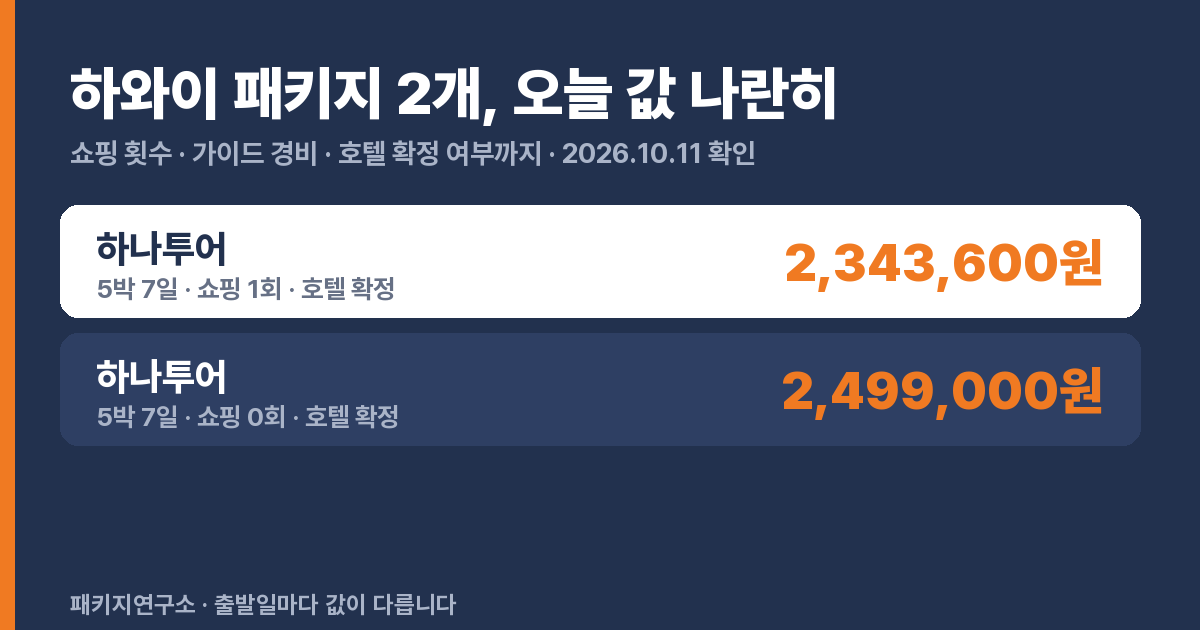
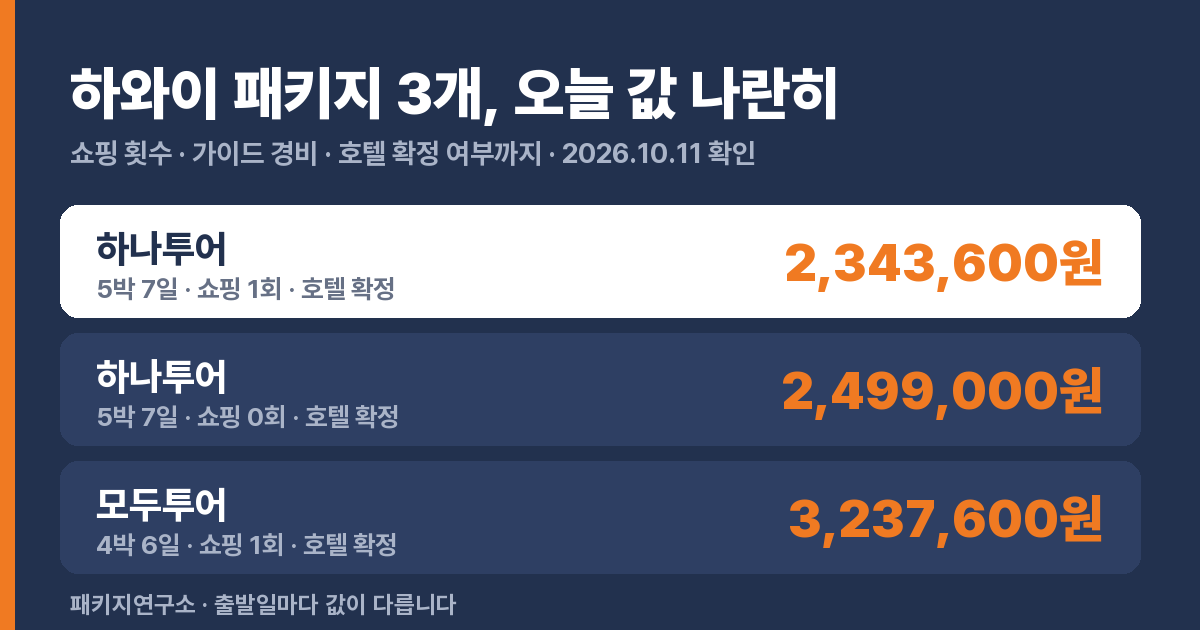
목적지 비교 페이지 2026.10.11

diff --git a/d/hawaii.html b/d/hawaii.html
@@ -1,8 +1,8 @@
 <!doctype html><html lang="ko"><head>
 <meta charset="utf-8"><meta name="viewport" content="width=device-width,initial-scale=1">
 <title>하와이 패키지 비교 — 패키지연구소</title>
-<meta name="description" content="하와이 패키지 2개를 가격·쇼핑 횟수·가이드 경비·호텔 확정 여부로 나란히 놓고 비교합니다.">
-<link rel="canonical" href="https://package-researcher.github.io/d/hawaii.html"><meta property="og:type" content="website"><meta property="og:url" content="https://package-researcher.github.io/d/hawaii.html"><meta property="og:title" content="하와이 패키지 2개, 나란히 비교"><meta property="og:description" content="가격·쇼핑 횟수·가이드 경비·호텔 확정 여부 · 오늘 기준 요금"><meta property="og:image" content="https://package-researcher.github.io/d/og/hawaii.png"><meta property="og:image:width" content="1200"><meta property="og:image:height" content="630"><meta name="twitter:card" content="summary_large_image"><script type="application/ld+json">{"@context": "https://schema.org", "@graph": [{"@type": "WebPage", "name": "하와이 패키지 2개 비교", "url": "https://package-researcher.github.io/d/hawaii.html", "publisher": {"@type": "Organization", "name": "패키지연구소", "url": "https://package-researcher.github.io/", "logo": "https://package-researcher.github.io/logo.png", "sameAs": ["https://www.youtube.com/@package-researcher", "https://www.instagram.com/package_researcher", "https://www.threads.net/@package_researcher", "https://clip.naver.com/@packagelabs", "https://blog.naver.com/robotnady10", "https://spnd.tistory.com"]}}, {"@type": "BreadcrumbList", "itemListElement": [{"@type": "ListItem", "position": 1, "name": "패키지연구소", "item": "https://package-researcher.github.io/"}, {"@type": "ListItem", "position": 2, "name": "하와이 패키지 비교", "item": "https://package-researcher.github.io/d/hawaii.html"}]}]}</script>
+<meta name="description" content="하와이 패키지 3개를 가격·쇼핑 횟수·가이드 경비·호텔 확정 여부로 나란히 놓고 비교합니다.">
+<link rel="canonical" href="https://package-researcher.github.io/d/hawaii.html"><meta property="og:type" content="website"><meta property="og:url" content="https://package-researcher.github.io/d/hawaii.html"><meta property="og:title" content="하와이 패키지 3개, 나란히 비교"><meta property="og:description" content="가격·쇼핑 횟수·가이드 경비·호텔 확정 여부 · 오늘 기준 요금"><meta property="og:image" content="https://package-researcher.github.io/d/og/hawaii.png"><meta property="og:image:width" content="1200"><meta property="og:image:height" content="630"><meta name="twitter:card" content="summary_large_image"><script type="application/ld+json">{"@context": "https://schema.org", "@graph": [{"@type": "WebPage", "name": "하와이 패키지 3개 비교", "url": "https://package-researcher.github.io/d/hawaii.html", "publisher": {"@type": "Organization", "name": "패키지연구소", "url": "https://package-researcher.github.io/", "logo": "https://package-researcher.github.io/logo.png", "sameAs": ["https://www.youtube.com/@package-researcher", "https://www.instagram.com/package_researcher", "https://www.threads.net/@package_researcher", "https://clip.naver.com/@packagelabs", "https://blog.naver.com/robotnady10", "https://spnd.tistory.com"]}}, {"@type": "BreadcrumbList", "itemListElement": [{"@type": "ListItem", "position": 1, "name": "패키지연구소", "item": "https://package-researcher.github.io/"}, {"@type": "ListItem", "position": 2, "name": "하와이 패키지 비교", "item": "https://package-researcher.github.io/d/hawaii.html"}]}]}</script>
 <style>
 *{box-sizing:border-box}
 body{margin:0;background:#F7F5EF;color:#22314E;word-break:keep-all;overflow-wrap:anywhere;
@@ -54,8 +54,8 @@ h1{font-size:27px;line-height:1.3;margin:6px 0 4px;letter-spacing:-.02em}
 </style></head><body><div class="wrap">
 <a class="back" href="https://package-researcher.github.io/">← 패키지연구소</a>
 <h1>하와이 패키지, 나란히 놓고 비교</h1>
-<p class="sub">2개 · 2026.10.11 기준 · 값싼 순</p>
-<div class="top3"><h2>오늘 최저가 2</h2><div class="t3"><div class="rk">1</div><div class="who"><b>하나투어</b><span>5박 7일 · 쇼핑 1회 · 현지 가이드 경비 60달러</span></div><div class="t3p">2,343,600원</div><a href="https://naver.me/Fsoiom3c" target="_blank" rel="sponsored noopener">요금 보기</a></div><div class="t3"><div class="rk">2</div><div class="who"><b>하나투어</b><span>5박 7일 · 쇼핑 0회 · 가이드 경비 포함</span></div><div class="t3p">2,499,000원</div><a href="https://naver.me/FWT9uEy7" target="_blank" rel="sponsored noopener">요금 보기</a></div></div>
+<p class="sub">3개 · 2026.10.11 기준 · 값싼 순</p>
+<div class="top3"><h2>오늘 최저가 3</h2><div class="t3"><div class="rk">1</div><div class="who"><b>하나투어</b><span>5박 7일 · 쇼핑 1회 · 현지 가이드 경비 60달러</span></div><div class="t3p">2,343,600원</div><a href="https://naver.me/Fsoiom3c" target="_blank" rel="sponsored noopener">요금 보기</a></div><div class="t3"><div class="rk">2</div><div class="who"><b>하나투어</b><span>5박 7일 · 쇼핑 0회 · 가이드 경비 포함</span></div><div class="t3p">2,499,000원</div><a href="https://naver.me/FWT9uEy7" target="_blank" rel="sponsored noopener">요금 보기</a></div><div class="t3"><div class="rk">3</div><div class="who"><b>모두투어</b><span>4박 6일 · 쇼핑 1회 · 현지 가이드 경비 60달러</span></div><div class="t3p">3,237,600원</div><a href="https://naver.me/52awtalg" target="_blank" rel="sponsored noopener">요금 보기</a></div></div>
 <div class="note"><b>이 표를 보는 법.</b> 값만 보면 안 됩니다.
 <b>쇼핑 횟수</b>가 값을 만들고(0회면 보통 20만원 이상 비쌉니다),
 <b>가이드 경비</b>는 현지에서 따로 내는 돈이며,
@@ -63,6 +63,7 @@ h1{font-size:27px;line-height:1.3;margin:6px 0 4px;letter-spacing:-.02em}
 같은 목적지라도 이 셋으로 실제 부담이 갈립니다.</div>
 <div class="card best"><div class="tag">최저가</div> <div class="tag gray">호텔 확정</div><div class="name">[출발확정] 하와이 7일 와이키키리조트 코너디럭스룸 UP 2일관광 쿠알로아랜치무비사이트 와이켈레아울렛 새우트럭</div><div class="price">2,343,600원<span>1인</span></div><div class="grid"><div class="kv"><b>여행사</b>하나투어</div><div class="kv"><b>일정</b>5박 7일</div><div class="kv"><b>항공</b>대한항공 직항</div><div class="kv"><b>출발</b>20:35</div><div class="kv"><b>쇼핑</b>1회</div><div class="kv"><b>가이드 경비</b>60달러</div><div class="kv"><b>식사</b>7회</div><div class="kv"><b>호텔</b>와이키키 리조트 호텔</div><div class="kv"><b>인솔자</b>없음</div></div><div class="fit"><span class="ok">좋은 점</span> 직항 · 호텔 미리 확정<br><span class="no">따져볼 점</span> 가이드 경비 현지 60달러</div><a class="go" href="https://naver.me/Fsoiom3c" target="_blank" rel="sponsored noopener">오늘 기준 요금 보기</a></div>
 <div class="card"><div class="tag gray">호텔 확정</div><div class="name"> 하와이 7일 힐튼하와이안빌리지 리조트뷰 공항호텔 셔틀포함 에어텔 하나스마트카드</div><div class="price">2,499,000원<span>1인</span></div><div class="grid"><div class="kv"><b>여행사</b>하나투어</div><div class="kv"><b>일정</b>5박 7일</div><div class="kv"><b>항공</b>대한항공 직항</div><div class="kv"><b>출발</b>20:35</div><div class="kv"><b>쇼핑</b>0회</div><div class="kv"><b>가이드 경비</b>포함</div><div class="kv"><b>자유일정</b>1일</div><div class="kv"><b>호텔</b>힐튼 하와이안 빌리지 와이키키 비치 리조트</div><div class="kv"><b>인솔자</b>없음</div></div><div class="fit"><span class="ok">좋은 점</span> 쇼핑 없음 · 가이드 경비 포함 · 직항</div><a class="go" href="https://naver.me/FWT9uEy7" target="_blank" rel="sponsored noopener">오늘 기준 요금 보기</a></div>
+<div class="card"><div class="tag gray">호텔 확정</div><div class="name">[UP][스페셜][관광2일+자유2일] 초특급 하얏트 리젠시 와이키키 &lt;오션뷰-&gt;오션프런트&gt; 하와이 6일</div><div class="price">3,237,600원<span>1인</span></div><div class="grid"><div class="kv"><b>여행사</b>모두투어</div><div class="kv"><b>일정</b>4박 6일</div><div class="kv"><b>항공</b>대한항공 직항</div><div class="kv"><b>출발</b>20:50</div><div class="kv"><b>쇼핑</b>1회</div><div class="kv"><b>가이드 경비</b>60달러</div><div class="kv"><b>식사</b>8회</div><div class="kv"><b>자유일정</b>2일</div><div class="kv"><b>호텔</b>하얏트 리젠시 와이키키 호텔</div><div class="kv"><b>인솔자</b>없음</div></div><div class="fit"><span class="ok">좋은 점</span> 직항 · 호텔 미리 확정<br><span class="no">따져볼 점</span> 가이드 경비 현지 60달러</div><a class="go" href="https://naver.me/52awtalg" target="_blank" rel="sponsored noopener">오늘 기준 요금 보기</a></div>
 
 <div class="foot">
 가격은 2026.10.11 확인한 성인 1인 표시가입니다. 출발일에 따라 달라집니다.<br>
